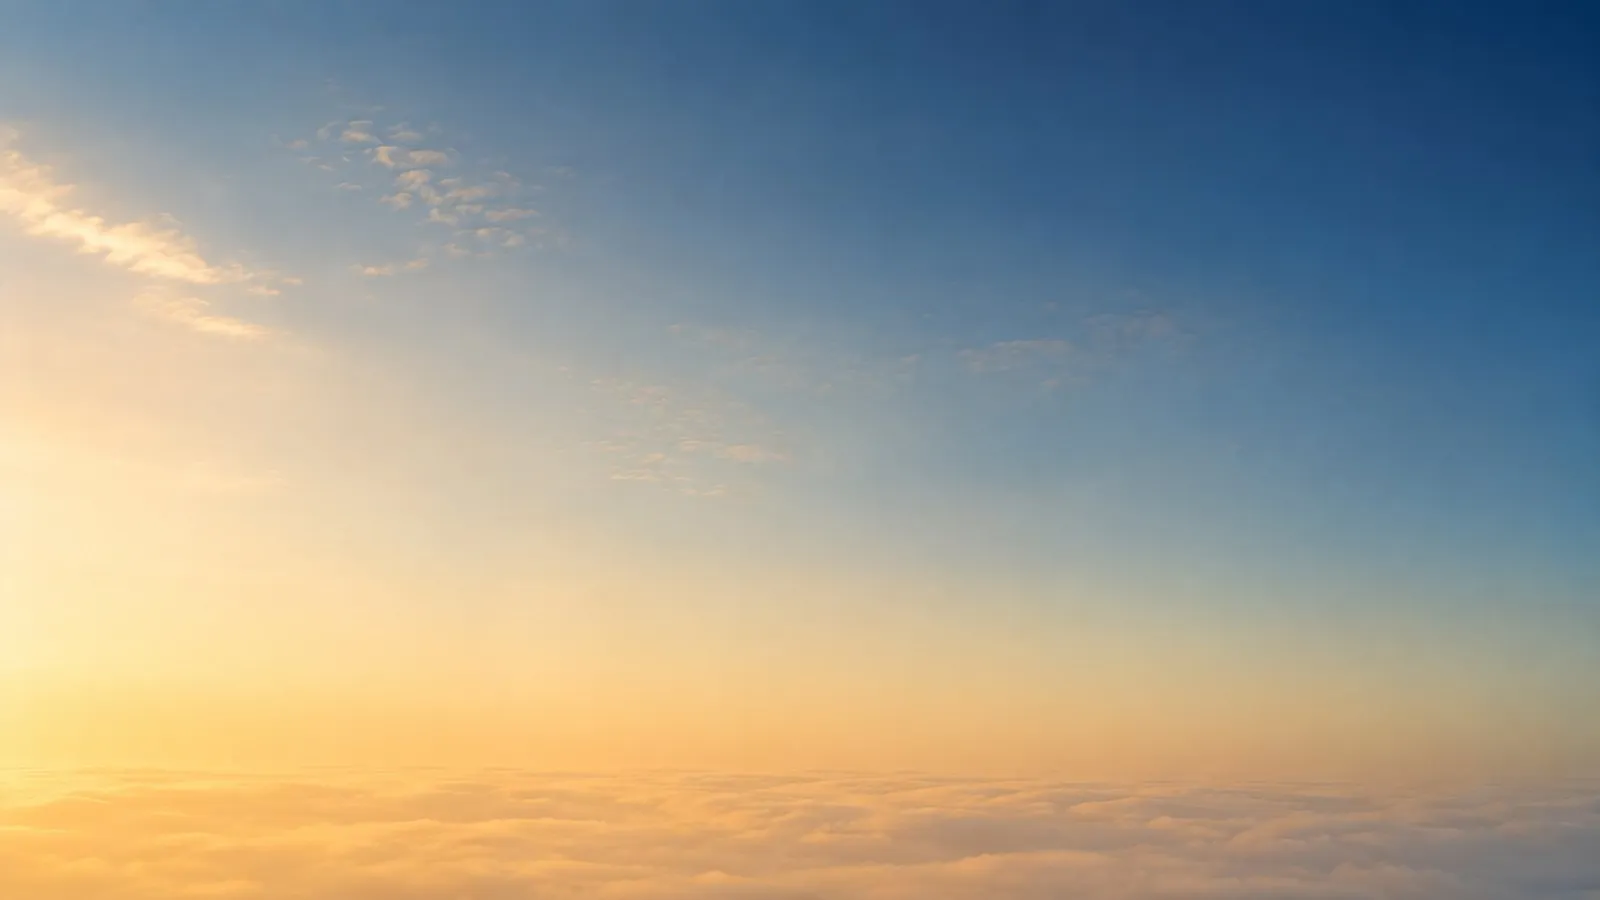
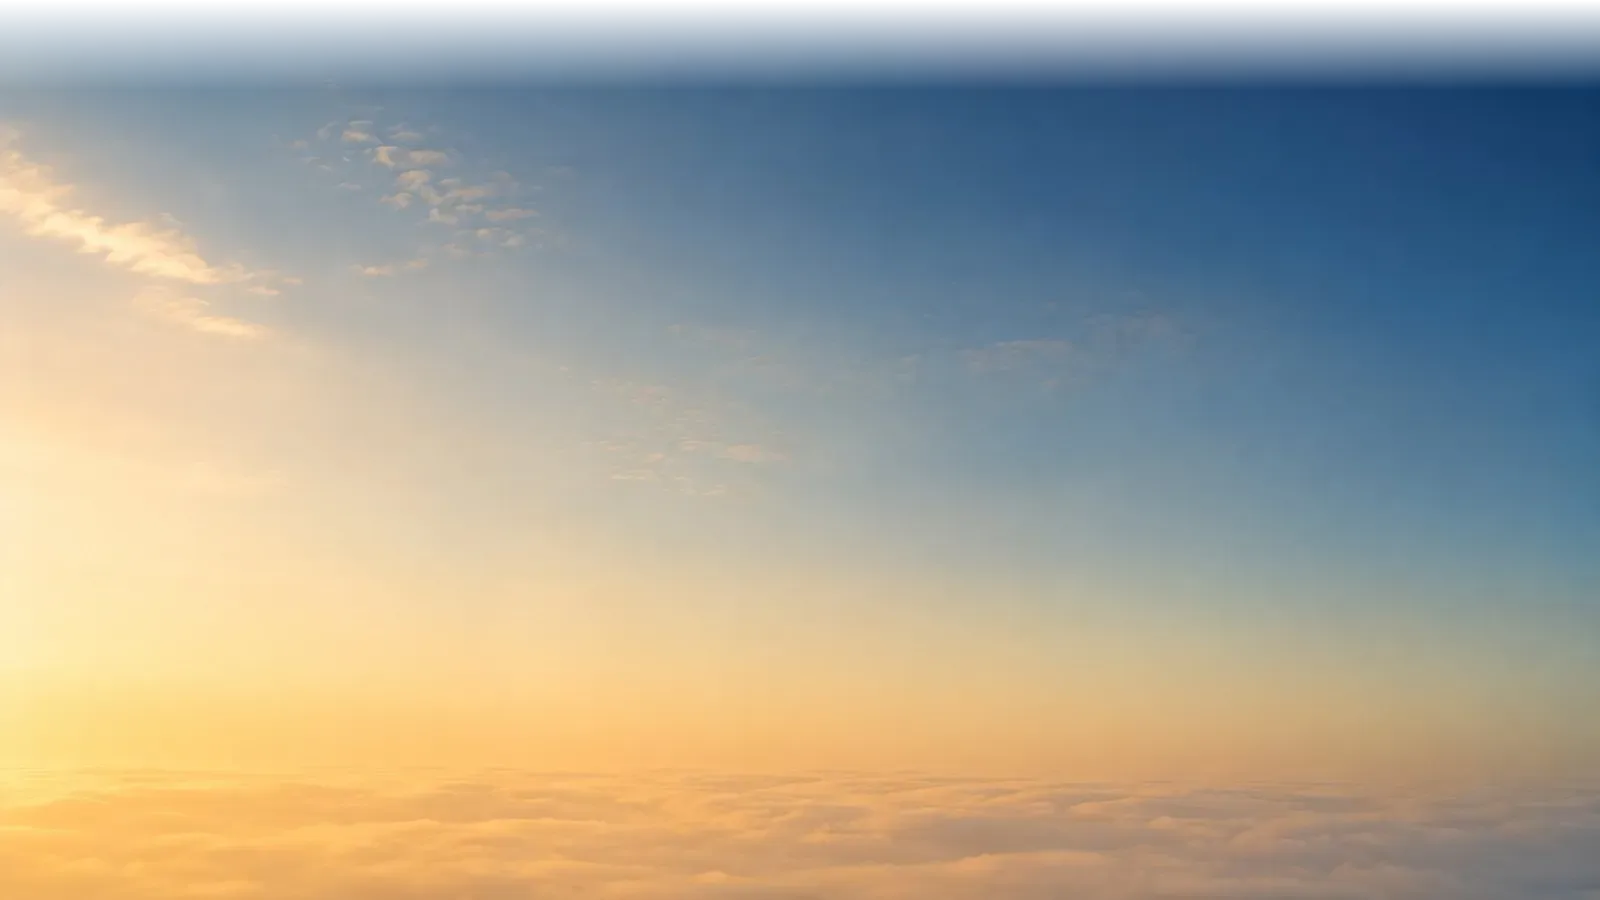
v39: kill glacial-valley checker remnants, feather s-sky top so sky bands melt together

Changed region(s): [[0.0, 0.0, 1.0, 0.0933]]

diff --git a/index.html b/index.html
@@ -1,26 +1,26 @@
 <!doctype html>
-<html lang="en"><head><meta charset="utf-8"><base href="./"><meta name="viewport" content="width=device-width,initial-scale=1"><title>Kawsaypac Journey Preview | From Cotopaxi to the Living Forest</title><meta name="description" content="Enter Ecuador's living cloud forest and follow one continuous cinematic path into the Cotopaxi valley."><meta property="og:title" content="Kawsaypac | From the Living Forest"><meta property="og:description" content="A continuous scroll journey from Ecuadorian cloud forest into the Cotopaxi valley."><meta property="og:image" content="assets/journey-v2/source/cotopaxi-valley-scene.png?v=24"><link rel="preload" as="image" href="assets/journey-v3/sky-plate.webp?v=33" fetchpriority="high"><link rel="preload" as="image" href="assets/journey-v3/peak.webp?v=33" fetchpriority="high"><link rel="preload" as="font" type="font/woff2" href="assets/fonts/satoshi-variable.woff2?v=17" crossorigin><link rel="preconnect" href="https://fonts.googleapis.com"><link rel="preconnect" href="https://fonts.gstatic.com" crossorigin><link href="https://fonts.googleapis.com/css2?family=Fraunces:ital,opsz,wght@0,9..144,300..600;1,9..144,300..600&display=swap" rel="stylesheet"><link rel="stylesheet" href="styles.css?v=36"><link rel="stylesheet" href="home.css?v=36"><link rel="stylesheet" href="journey.css?v=38"><script defer src="assets/vendor/gsap.min.js?v=24"></script><script defer src="assets/vendor/ScrollTrigger.min.js?v=24"></script><script defer src="app.js?v=36"></script><script defer src="journey.js?v=38"></script></head>
+<html lang="en"><head><meta charset="utf-8"><base href="./"><meta name="viewport" content="width=device-width,initial-scale=1"><title>Kawsaypac Journey Preview | From Cotopaxi to the Living Forest</title><meta name="description" content="Enter Ecuador's living cloud forest and follow one continuous cinematic path into the Cotopaxi valley."><meta property="og:title" content="Kawsaypac | From the Living Forest"><meta property="og:description" content="A continuous scroll journey from Ecuadorian cloud forest into the Cotopaxi valley."><meta property="og:image" content="assets/journey-v2/source/cotopaxi-valley-scene.png?v=24"><link rel="preload" as="image" href="assets/journey-v3/sky-plate.webp?v=33" fetchpriority="high"><link rel="preload" as="image" href="assets/journey-v3/peak.webp?v=33" fetchpriority="high"><link rel="preload" as="font" type="font/woff2" href="assets/fonts/satoshi-variable.woff2?v=17" crossorigin><link rel="preconnect" href="https://fonts.googleapis.com"><link rel="preconnect" href="https://fonts.gstatic.com" crossorigin><link href="https://fonts.googleapis.com/css2?family=Fraunces:ital,opsz,wght@0,9..144,300..600;1,9..144,300..600&display=swap" rel="stylesheet"><link rel="stylesheet" href="styles.css?v=36"><link rel="stylesheet" href="home.css?v=36"><link rel="stylesheet" href="journey.css?v=39"><script defer src="assets/vendor/gsap.min.js?v=24"></script><script defer src="assets/vendor/ScrollTrigger.min.js?v=24"></script><script defer src="app.js?v=36"></script><script defer src="journey.js?v=39"></script></head>
 <body class="journey-preview"><a class="skip-link" href="#main">Skip to content</a><div data-site-header></div>
 <main id="main">
 <section class="journey-scroll" id="hero"><div class="journey-sticky">
   <div class="j4" aria-hidden="true">
-    <img class="j4l j4-band" data-d="sky"  src="assets/journey-v4/v-sky.webp?v=38" style="top:6.4%;height:68.2%" alt="">
-    <img class="j4l j4-band" data-d="sky"  src="assets/journey-v4/s-sky.webp?v=38" style="top:42.1%;height:57.9%" alt="">
-    <img class="j4l j4-obj"  data-d="anchor" src="assets/journey-v4/cloud-1.webp?v=38" style="left:0;top:0;height:33.1%" alt="">
-    <img class="j4l j4-obj"  data-d="anchor" src="assets/journey-v4/cloud-2.webp?v=38" style="left:51.8%;top:0;height:33.7%" alt="">
-    <img class="j4l j4-band" data-d="anchor" src="assets/journey-v4/cotopaxi-cutout.webp?v=38" style="top:2%;height:59.1%" alt="">
-    <img class="j4l j4-obj"  data-d="anchor" src="assets/journey-v4/cloud-1.webp?v=38" style="left:53.6%;top:18.9%;height:21.4%;opacity:.85" alt="">
-    <img class="j4l j4-obj"  data-d="anchor" src="assets/journey-v4/condor.webp?v=38" style="left:31.2%;top:16.5%;height:14.4%" alt="">
-    <img class="j4l j4-band" data-d="far"  src="assets/journey-v4/glacial-valley.webp?v=38" style="top:21.5%;height:57.3%" alt="">
-    <img class="j4l j4-obj"  data-d="mid"  src="assets/journey-v4/hill-left.webp?v=38" style="left:0.8%;top:24.6%;height:28.8%" alt="">
-    <img class="j4l j4-obj"  data-d="mid"  src="assets/journey-v4/ridge-a.webp?v=38" style="left:0.8%;top:44%;height:34.1%" alt="">
-    <img class="j4l j4-obj"  data-d="mid"  src="assets/journey-v4/ridge-b.webp?v=38" style="left:58.8%;top:46.5%;height:31%" alt="">
-    <img class="j4l j4-obj"  data-d="mid2" src="assets/journey-v4/river.webp?v=38" style="left:30.5%;top:50.2%;height:23.4%" alt="">
-    <img class="j4l j4-band" data-d="near" src="assets/journey-v4/moss-foreground.webp?v=38" style="top:42.9%;height:57.1%" alt="">
-    <img class="j4l j4-obj"  data-d="near2" src="assets/journey-v4/branch.webp?v=38" style="left:0.8%;top:65.2%;height:39.2%" alt="">
-    <img class="j4l j4-obj"  data-d="front" src="assets/journey-v4/monstera.webp?v=38" style="left:0.3%;top:42.1%;height:57%" alt="">
-    <img class="j4l j4-obj"  data-d="front" src="assets/journey-v4/orchid-brom.webp?v=38" style="left:64.8%;top:53.4%;height:46.6%" alt="">
-    <img class="j4l j4-obj"  data-d="front" src="assets/journey-v4/orchids-left.webp?v=38" style="left:57%;top:78.1%;height:21.9%" alt="">
+    <img class="j4l j4-band" data-d="sky"  src="assets/journey-v4/v-sky.webp?v=39" style="top:6.4%;height:68.2%" alt="">
+    <img class="j4l j4-band" data-d="sky"  src="assets/journey-v4/s-sky.webp?v=39" style="top:42.1%;height:57.9%" alt="">
+    <img class="j4l j4-obj"  data-d="anchor" src="assets/journey-v4/cloud-1.webp?v=39" style="left:0;top:0;height:33.1%" alt="">
+    <img class="j4l j4-obj"  data-d="anchor" src="assets/journey-v4/cloud-2.webp?v=39" style="left:51.8%;top:0;height:33.7%" alt="">
+    <img class="j4l j4-band" data-d="anchor" src="assets/journey-v4/cotopaxi-cutout.webp?v=39" style="top:2%;height:59.1%" alt="">
+    <img class="j4l j4-obj"  data-d="anchor" src="assets/journey-v4/cloud-1.webp?v=39" style="left:53.6%;top:18.9%;height:21.4%;opacity:.85" alt="">
+    <img class="j4l j4-obj"  data-d="anchor" src="assets/journey-v4/condor.webp?v=39" style="left:31.2%;top:16.5%;height:14.4%" alt="">
+    <img class="j4l j4-band" data-d="far"  src="assets/journey-v4/glacial-valley.webp?v=39" style="top:21.5%;height:57.3%" alt="">
+    <img class="j4l j4-obj"  data-d="mid"  src="assets/journey-v4/hill-left.webp?v=39" style="left:0.8%;top:24.6%;height:28.8%" alt="">
+    <img class="j4l j4-obj"  data-d="mid"  src="assets/journey-v4/ridge-a.webp?v=39" style="left:0.8%;top:44%;height:34.1%" alt="">
+    <img class="j4l j4-obj"  data-d="mid"  src="assets/journey-v4/ridge-b.webp?v=39" style="left:58.8%;top:46.5%;height:31%" alt="">
+    <img class="j4l j4-obj"  data-d="mid2" src="assets/journey-v4/river.webp?v=39" style="left:30.5%;top:50.2%;height:23.4%" alt="">
+    <img class="j4l j4-band" data-d="near" src="assets/journey-v4/moss-foreground.webp?v=39" style="top:42.9%;height:57.1%" alt="">
+    <img class="j4l j4-obj"  data-d="near2" src="assets/journey-v4/branch.webp?v=39" style="left:0.8%;top:65.2%;height:39.2%" alt="">
+    <img class="j4l j4-obj"  data-d="front" src="assets/journey-v4/monstera.webp?v=39" style="left:0.3%;top:42.1%;height:57%" alt="">
+    <img class="j4l j4-obj"  data-d="front" src="assets/journey-v4/orchid-brom.webp?v=39" style="left:64.8%;top:53.4%;height:46.6%" alt="">
+    <img class="j4l j4-obj"  data-d="front" src="assets/journey-v4/orchids-left.webp?v=39" style="left:57%;top:78.1%;height:21.9%" alt="">
   </div>
   <div class="journey-brand"><span>5,897 m · Cotopaxi, Ecuador</span><strong>Kawsaypac</strong><em>Scroll to descend to the living source</em></div>
   <div class="journey-beat journey-beat-forest"><span>Where the journey begins</span><h1>Begin at the summit.</h1><p>First light on the glacier. From here, everything flows downward, water, minerals, and medicine.</p></div>